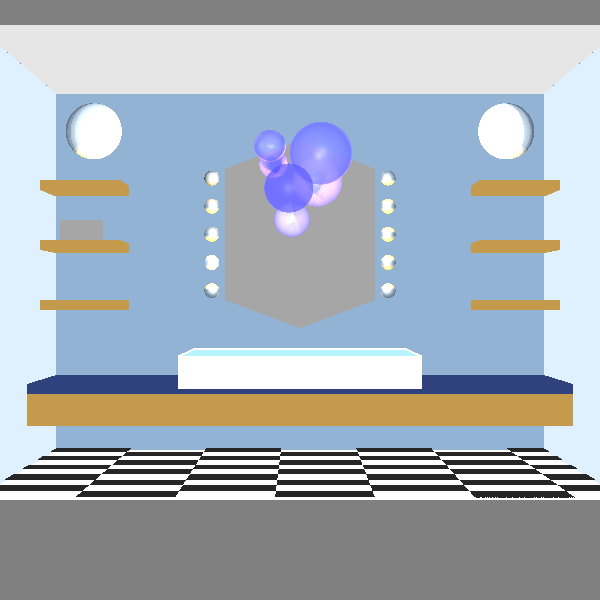
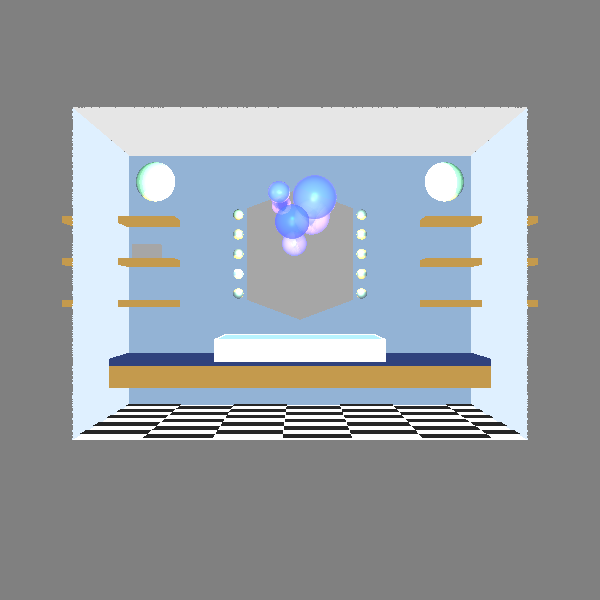
here we go again

diff --git a/unitTests/renderer/Project1.java b/unitTests/renderer/Project1.java
@@ -22,7 +22,7 @@ public class Project1 {
 //        .setVPSize(200, 200).setVPDistance(1000);
 
         Camera camera = new Camera(new Point(10, 1200, -200), new Vector(0, -1, 0), new Vector(1 / 2, 0, 1))
-                .setVPSize(200, 200).setVPDistance(1000);
+                .setVPSize(200, 200).setVPDistance(700);
 
         scene.setAmbientLight(new AmbientLight(new Color(WHITE), 0.15));
 
@@ -260,7 +260,7 @@ public class Project1 {
                 ).setEmission(new Color(BLACK)),
 
 
-                //קיר שמאלי
+//                קיר שמאלי
         new Polygon(
                 new Point(140, -400, -90),
                 new Point(140, -400, -280),
@@ -427,6 +427,11 @@ public class Project1 {
 //                        .setkL(0.0004).setkQ(0.0000006));
         scene.lights.add(new PointLight(new Color(white), new Point(0,-230,-130)).setkL(0.0004).setkQ(0.0000006));
 
+
+
+
+        scene.lights.add(new SpotLight(new Color(GREEN), new Point(10, 0, -100), new Vector(0,-1,-0.5))
+               .setkL(4E-4).setkQ(2E-10));
 
 
         //ספוטים
